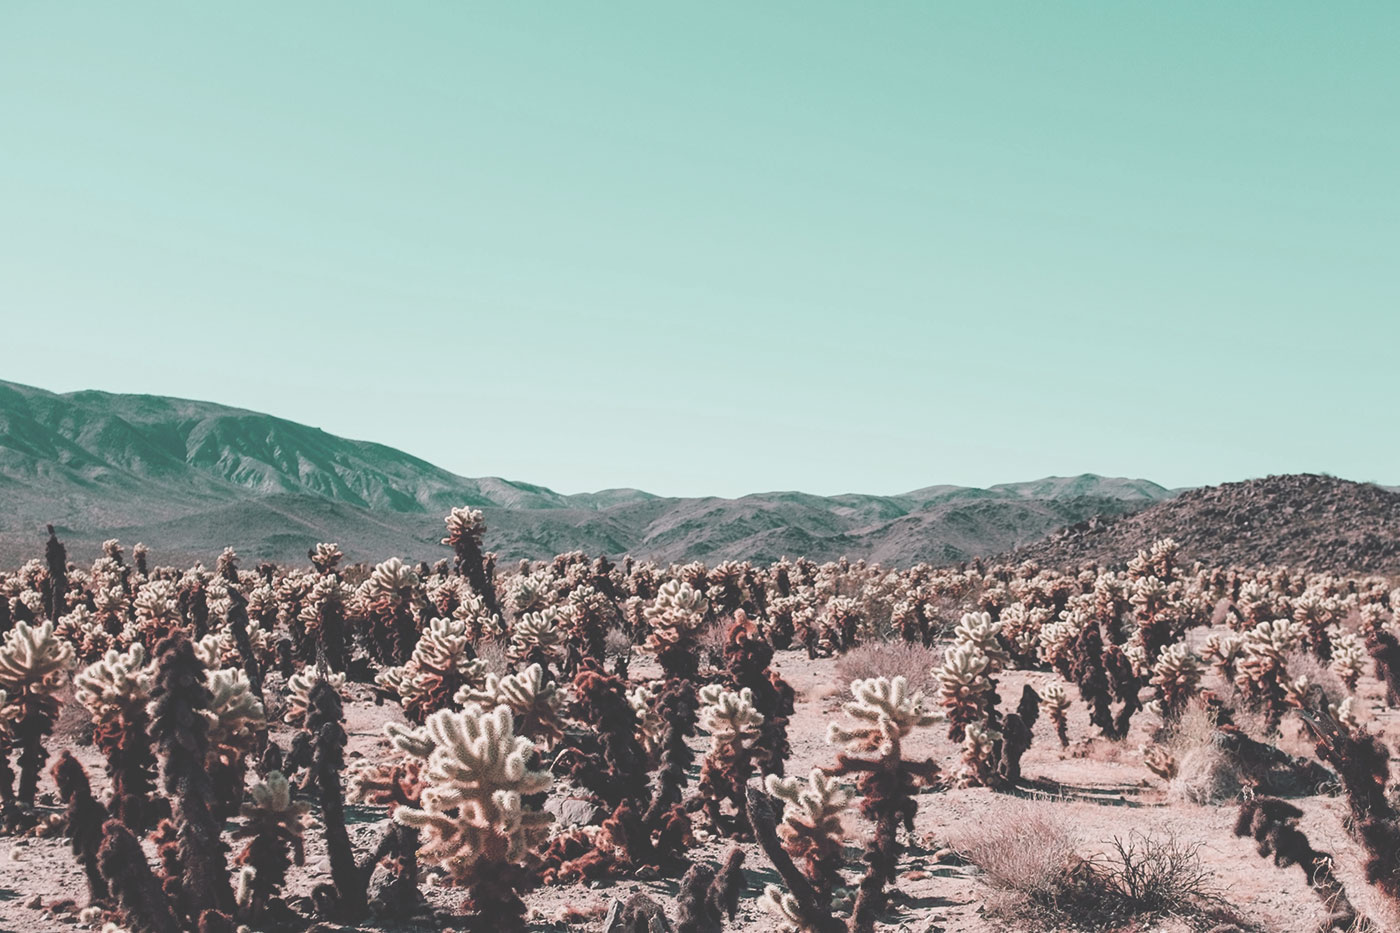
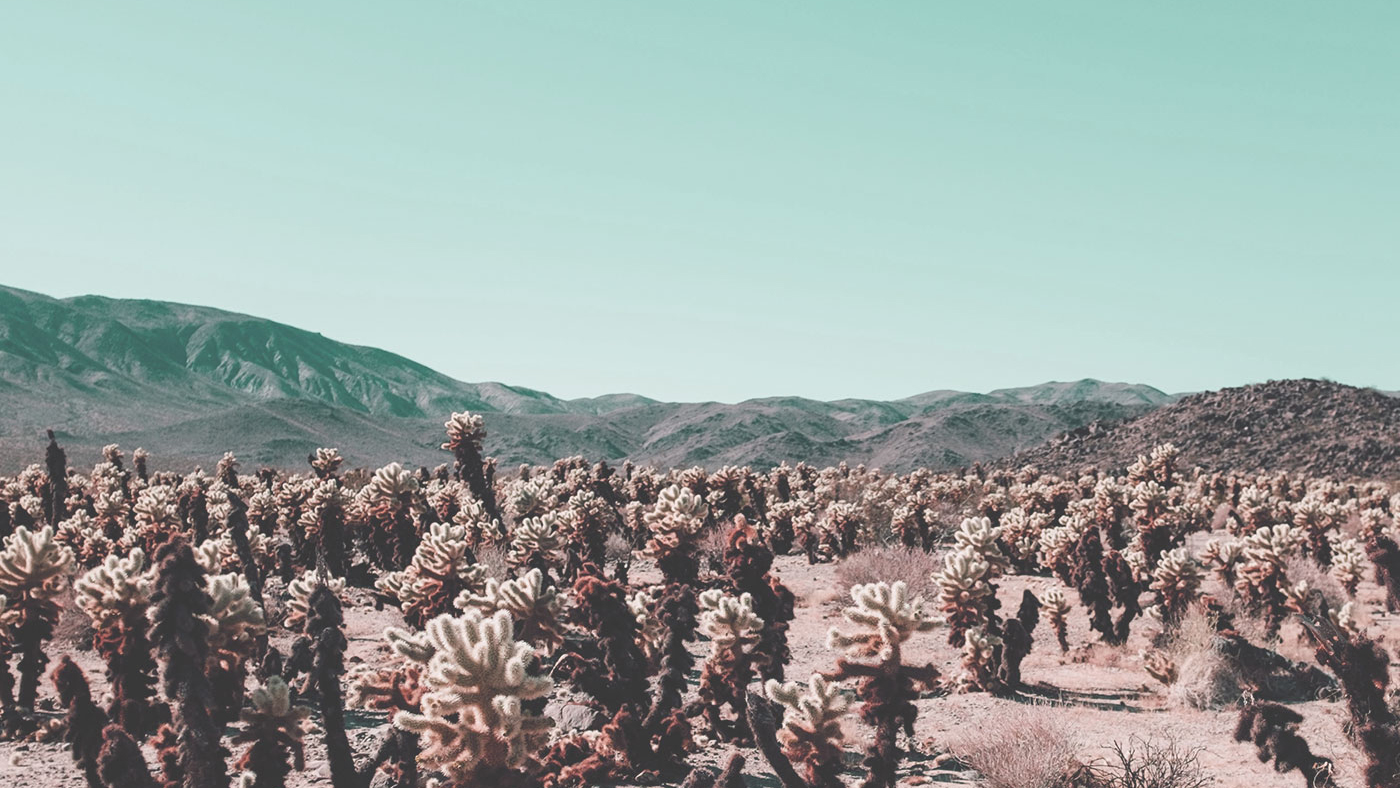
allbutbonus

diff --git a/project-03b/blog2.html b/project-03b/blog2.html
@@ -42,14 +42,23 @@
 	<div>
 		<h3>11/23/2020</h3>
 		<h2>A Visual Guide to the Southwest</h2>
+		<div class="flex.container">
+			<div class="row">
+				<div class="column"></div>
+				<div class="column left">
+					<!-- INSERT IMAGE: article_1.jpg (in images folder) -->
+					<img src=".\images\blog_1.jpg" alt="Blog 1">
+					<p>Lorem ipsum dolor sit amet, consectetur adipisicing elit. Vel voluptate eos nisi necessitatibus aperiam dolorem ut eveniet quae dolores quisquam nulla, cumque tenetur blanditiis modi tempora excepturi error veniam suscipit dicta praesentium reiciendis illo obcaecati odit inventore minima. Pariatur facilis, excepturi! Facilis cumque dicta reiciendis nam accusantium cum pariatur sunt accusamus voluptas eaque sapiente totam dolorum nulla eligendi molestiae, quidem odit repellat temporibus quae ipsa aut placeat modi sint doloribus. Ipsum nisi veritatis, facere doloribus. Nihil veritatis corporis eaque odio.</p>
+				</div>
 
-		<!-- INSERT IMAGE: article_1.jpg (in images folder) -->
-		<img src=".\images\blog_1.jpg" alt="Blog 1">
-		<p>Lorem ipsum dolor sit amet, consectetur adipisicing elit. Vel voluptate eos nisi necessitatibus aperiam dolorem ut eveniet quae dolores quisquam nulla, cumque tenetur blanditiis modi tempora excepturi error veniam suscipit dicta praesentium reiciendis illo obcaecati odit inventore minima. Pariatur facilis, excepturi! Facilis cumque dicta reiciendis nam accusantium cum pariatur sunt accusamus voluptas eaque sapiente totam dolorum nulla eligendi molestiae, quidem odit repellat temporibus quae ipsa aut placeat modi sint doloribus. Ipsum nisi veritatis, facere doloribus. Nihil veritatis corporis eaque odio.</p>
-
-		<!-- INSERT IMAGE: article_2.jpg (in images folder) -->
-		<img src=".\images\blog_2.jpg" alt="Blog 2">
-		<p>Maiores qui doloremque suscipit molestias. Saepe omnis dolore, ipsum voluptatem quisquam eveniet repellat! Eius in vero, cum dolorem ad earum, dignissimos quasi qui obcaecati, minima, esse aliquid beatae. Placeat, adipisci temporibus suscipit neque assumenda earum perferendis autem voluptatem nostrum ipsa porro, voluptas cumque ullam et reiciendis deserunt eos aspernatur esse laudantium cum natus cupiditate nesciunt. Nostrum doloremque odio maiores, quis architecto vero unde error, obcaecati ullam esse soluta et incidunt. Totam quaerat unde doloribus inventore sapiente molestiae, rem? Dolor, est.</p>
+				<div class="column"></div>
+				<div class="column right">
+					<!-- INSERT IMAGE: article_2.jpg (in images folder) -->
+					<img src=".\images\blog_2.jpg" alt="Blog 2">
+					<p>Maiores qui doloremque suscipit molestias. Saepe omnis dolore, ipsum voluptatem quisquam eveniet repellat! Eius in vero, cum dolorem ad earum, dignissimos quasi qui obcaecati, minima, esse aliquid beatae. Placeat, adipisci temporibus suscipit neque assumenda earum perferendis autem voluptatem nostrum ipsa porro, voluptas cumque ullam et reiciendis deserunt eos aspernatur esse laudantium cum natus cupiditate nesciunt. Nostrum doloremque odio maiores, quis architecto vero unde error, obcaecati ullam esse soluta et incidunt. Totam quaerat unde doloribus inventore sapiente molestiae, rem? Dolor, est.</p>
+				</div>
+			</div>
+		</div>
 	</div>
 
 	<div>

diff --git a/project-03b/css/style.css b/project-03b/css/style.css
@@ -11,7 +11,7 @@ Typography
 ------------------------------------------- */
 
 h1{
-    color: #44545e;
+    color: #ffffff;
     font-size: 24px ;
     letter-spacing: 6px;
     font-family: 'Raleway', sans-serif;
@@ -70,7 +70,7 @@ ul.container {
     line-height: 60px;
   }
   
-  .container a {
+.container a {
     text-decoration: none;
     color: #819cae;
     font-size: 10px ;
@@ -92,9 +92,10 @@ nav {
     padding-right: 15%;
   }
 
+
  img{
       max-width: 100%;
-      height: auto;
+      height: unset;
       width: auto; 
       }
 
@@ -103,18 +104,42 @@ nav {
     width: 300px; 
     }
 
+
+.flex-container {
+        display: flex;
+        justify-content: space-between;
+        align-items:center;
+        flex-direction: row;
+        flex-wrap: nowrap;
+    }
+
+.row {
+    display: flex;
+    line-height: 1.68;
+    justify-content:space-between;
+    }
+      
+      
+.column {
+        flex-direction: column;
+        justify-content:space-between;
+        display: flex;
+        padding-right: 7px;
+      }
+      
+
 /* ----------------------------------------
 Header
 ------------------------------------------- */
 header{
     background-image: url("blog_header_bg.jpg");
-    background-size:auto;
-    background-position:top;
+    background-size:cover;
+    background-position:center;
 }
 
 .header{
-    padding-top: 20px;
-    height: 175px;
+    padding-top: 130px;
+    height: 300px;
 }
 
 /* ----------------------------------------
